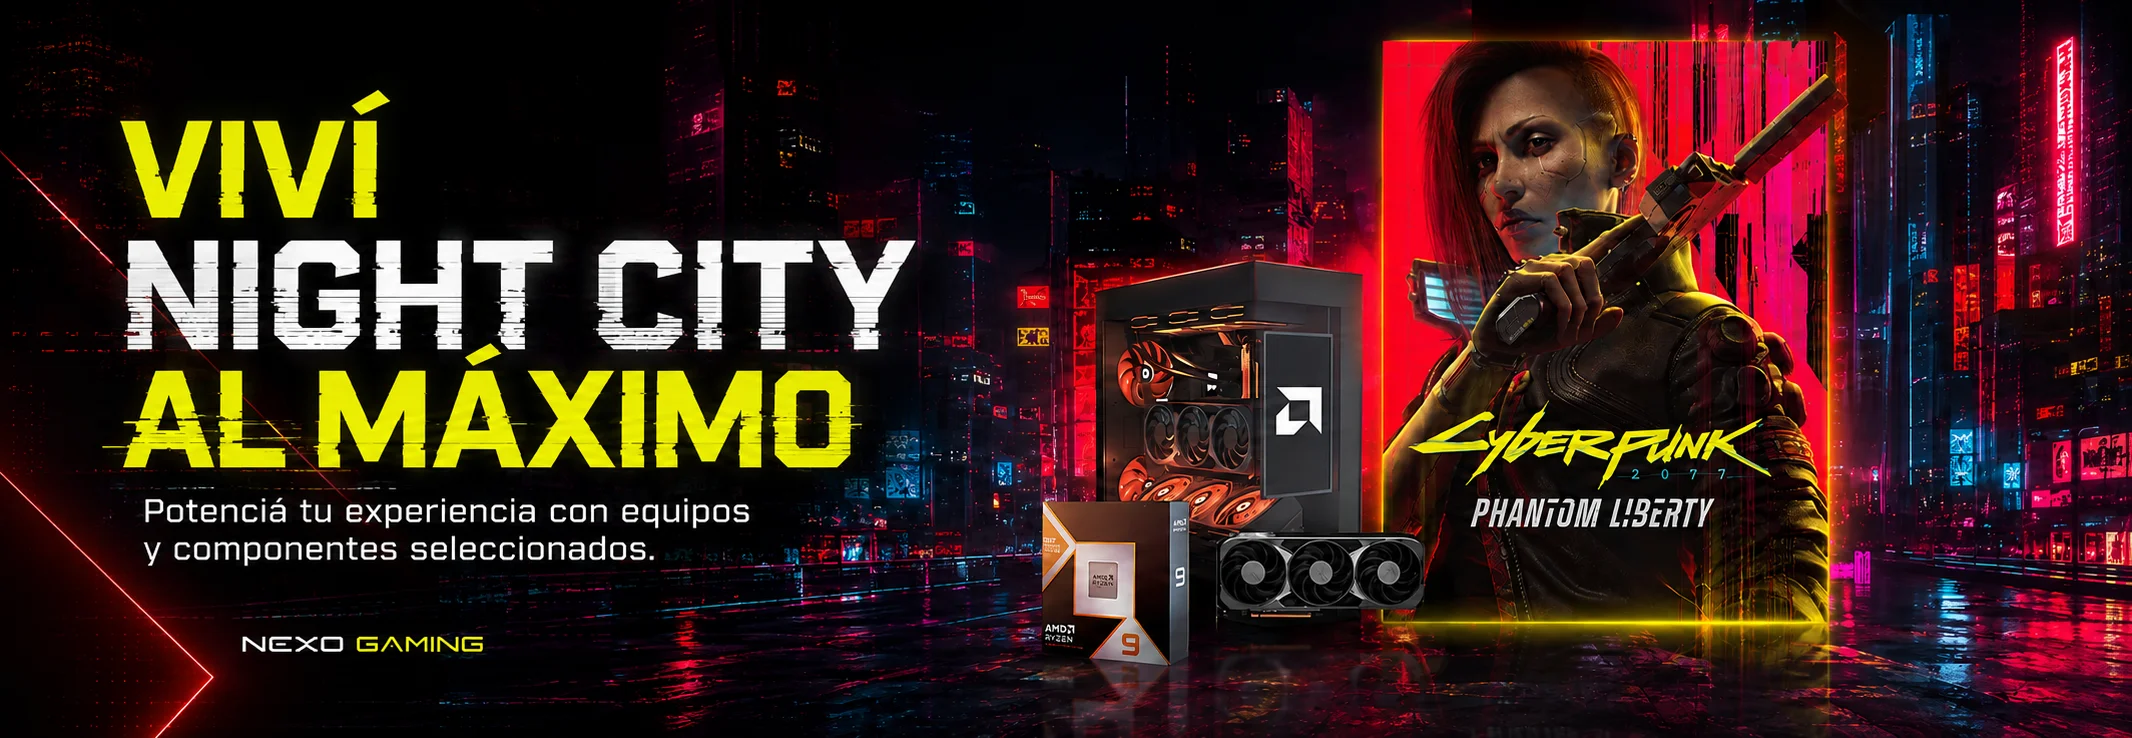
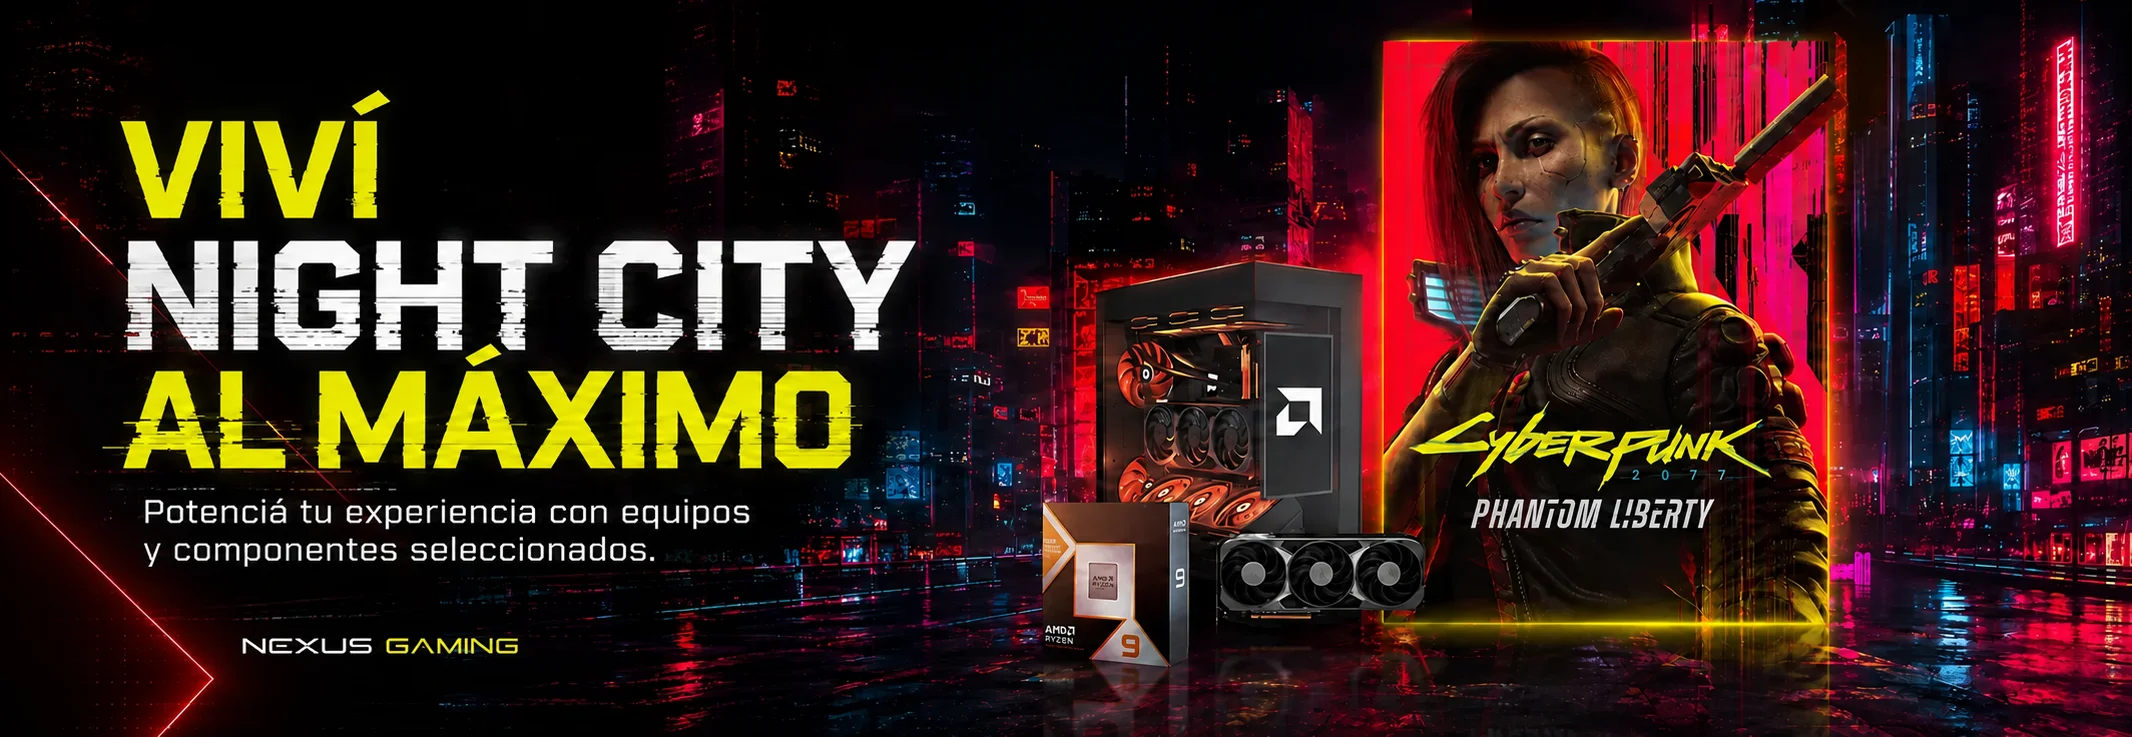
Mejora distribución del panel administrador

diff --git a/src/pages/AdminLogin.jsx b/src/pages/AdminLogin.jsx
@@ -1,6 +1,6 @@
 import { useState } from "react";
 import { Link, useNavigate } from "react-router";
-import { ArrowLeft, LockKeyhole, Mail } from "lucide-react";
+import { ArrowLeft, Eye, EyeOff, LockKeyhole, Mail } from "lucide-react";
 import { loginAdmin } from "../services/adminSession";
 import "./Admin.css";
 
@@ -9,6 +9,7 @@ function AdminLogin() {
 
   const [email, setEmail] = useState("");
   const [password, setPassword] = useState("");
+  const [showPassword, setShowPassword] = useState(false);
   const [error, setError] = useState("");
   const [isSubmitting, setIsSubmitting] = useState(false);
 
@@ -42,7 +43,7 @@ function AdminLogin() {
           <LockKeyhole size={28} />
         </div>
 
-        <span className="admin-login__eyebrow">NEXO GAMING</span>
+        <span className="admin-login__eyebrow">Nexus Gaming</span>
         <h1>Acceso administrador</h1>
         <p>Ingresá para administrar el catálogo de productos.</p>
 
@@ -54,7 +55,7 @@ function AdminLogin() {
               <Mail size={18} />
               <input
                 type="email"
-                placeholder="admin@nexogaming.com"
+                placeholder="admin@nexusgaming.com"
                 value={email}
                 onChange={(event) => setEmail(event.target.value)}
                 required
@@ -68,12 +69,21 @@ function AdminLogin() {
             <div className="admin-input">
               <LockKeyhole size={18} />
               <input
-                type="password"
+                type={showPassword ? "text" : "password"}
                 placeholder="Ingresá tu contraseña"
                 value={password}
                 onChange={(event) => setPassword(event.target.value)}
                 required
               />
+              <button
+                type="button"
+                className="admin-password-toggle"
+                onClick={() => setShowPassword((current) => !current)}
+                aria-label={showPassword ? "Ocultar contraseña" : "Mostrar contraseña"}
+                title={showPassword ? "Ocultar contraseña" : "Mostrar contraseña"}
+              >
+                {showPassword ? <EyeOff size={19} /> : <Eye size={19} />}
+              </button>
             </div>
           </label>
 
@@ -89,7 +99,7 @@ function AdminLogin() {
         </form>
 
         <p className="admin-login__demo">
-          Demo: <strong>admin@nexogaming.com</strong> /{" "}
+          Demo: <strong>admin@nexusgaming.com</strong> /{" "}
           <strong>admin123</strong>
         </p>
       </section>

diff --git a/src/components/Footer.jsx b/src/components/Footer.jsx
@@ -49,8 +49,8 @@ export default function Footer() {
       <div className="site-footer__container">
         <div className="site-footer__grid">
           <section className="site-footer__brand">
-            <Link to="/" aria-label="Ir al inicio de Nexo Gaming">
-              <span>NEXO</span> GAMING
+            <Link to="/" aria-label="Ir al inicio de Nexus Gaming">
+              <span>Nexus</span> Gaming
             </Link>
             <p>
               Tecnología, componentes y equipos para llevar tu experiencia al
@@ -73,7 +73,7 @@ export default function Footer() {
           </section>
 
           <section className="site-footer__column">
-            <h2>Nexo Gaming</h2>
+            <h2>Nexus Gaming</h2>
             <PendingLinks links={placeholderLinks.company} />
           </section>
 
@@ -85,7 +85,7 @@ export default function Footer() {
                   key={name}
                   type="button"
                   disabled
-                  aria-label={`${name} de Nexo Gaming, próximamente`}
+                  aria-label={`${name} de Nexus Gaming, próximamente`}
                   title="Próximamente"
                 >
                   <Icon size={20} />
@@ -96,7 +96,7 @@ export default function Footer() {
         </div>
 
         <div className="site-footer__bottom">
-          <p>© 2026 Nexo Gaming. Todos los derechos reservados.</p>
+          <p>© 2026 Nexus Gaming. Todos los derechos reservados.</p>
         </div>
       </div>
 

diff --git a/src/pages/Admin.css b/src/pages/Admin.css
@@ -109,6 +109,31 @@
   color: #777780;
 }
 
+.admin-password-toggle {
+  flex: 0 0 auto;
+  width: 34px;
+  height: 34px;
+  padding: 0;
+  display: grid;
+  place-items: center;
+  border: 0;
+  border-radius: 7px;
+  background: transparent;
+  color: #9898a1;
+  cursor: pointer;
+}
+
+.admin-password-toggle:hover,
+.admin-password-toggle:focus-visible {
+  background: #29292d;
+  color: #ffffff;
+}
+
+.admin-password-toggle:focus-visible {
+  outline: 2px solid #ff4d24;
+  outline-offset: 1px;
+}
+
 .admin-button,
 .admin-secondary-button {
   min-height: 47px;
@@ -169,7 +194,7 @@
 }
 
 .admin-dashboard {
-  width: min(100%, 1260px);
+  width: min(100%, 1440px);
 }
 
 .admin-dashboard__header {

diff --git a/src/pages/AdminDashboard.jsx b/src/pages/AdminDashboard.jsx
@@ -17,7 +17,7 @@ function AdminDashboard() {
       <section className="admin-dashboard">
         <header className="admin-dashboard__header">
           <div>
-            <span className="admin-login__eyebrow">NEXO GAMING</span>
+            <span className="admin-login__eyebrow">Nexus Gaming</span>
             <h1>Panel administrador</h1>
             <p>Administrá los productos que se mostrarán en la tienda.</p>
           </div>

diff --git a/src/components/FeaturedProducts.jsx b/src/components/FeaturedProducts.jsx
@@ -50,7 +50,7 @@ export default function FeaturedProducts() {
     <section id="productos" className="featured-products">
       <div className="featured-products__heading">
         <div>
-          <span>SELECCIÓN NEXO</span>
+          <span>SELECCIÓN Nexus Gaming</span>
           <h2>Productos destacados</h2>
           <p>Descubrí las últimas novedades que sumamos a nuestra tienda.</p>
         </div>

diff --git a/src/components/ProductManager.css b/src/components/ProductManager.css
@@ -4,7 +4,7 @@
 
 .product-manager__layout {
   display: grid;
-  grid-template-columns: minmax(420px, 0.9fr) minmax(500px, 1.3fr);
+  grid-template-columns: minmax(0, 1.65fr) minmax(340px, 1fr);
   gap: 24px;
   align-items: start;
 }
@@ -62,7 +62,7 @@
 }
 
 .product-form textarea {
-  min-height: 115px;
+  min-height: 160px;
   padding-right: 13px;
   resize: vertical;
 }

diff --git a/src/pages/PcBuilder.jsx b/src/pages/PcBuilder.jsx
@@ -239,7 +239,7 @@ export default function PcBuilder() {
 
       <main className="pc-builder-page">
         <header className="pc-builder-intro">
-          <span>CONFIGURADOR NEXO</span>
+          <span>CONFIGURADOR Nexus Gaming</span>
           <h1>Armá tu PC</h1>
           <p>Elegí cada componente paso a paso y armá tu equipo ideal.</p>
         </header>

diff --git a/src/components/Header.jsx b/src/components/Header.jsx
@@ -34,8 +34,8 @@ function Header() {
           <div className="brand__symbol">N</div>
 
           <div className="brand__text">
-            <span>NEXO</span>
-            <strong>GAMING</strong>
+            <span>Nexus</span>
+            <strong>Gaming</strong>
           </div>
         </Link>
 

diff --git a/index.html b/index.html
@@ -4,7 +4,7 @@
     <meta charset="UTF-8" />
     <link rel="icon" type="image/svg+xml" href="/favicon.svg" />
     <meta name="viewport" content="width=device-width, initial-scale=1.0" />
-    <title>tienda-gamer</title>
+    <title>Nexus Gaming</title>
   </head>
   <body>
     <div id="root"></div>

diff --git a/server/src/index.js b/server/src/index.js
@@ -21,7 +21,7 @@ app.use(express.json({ limit: "10mb" }));
 
 app.get("/api/health", (req, res) => {
   res.json({
-    message: "Backend de Nexo Gaming funcionando.",
+    message: "Backend de Nexus Gaming funcionando.",
   });
 });
 
